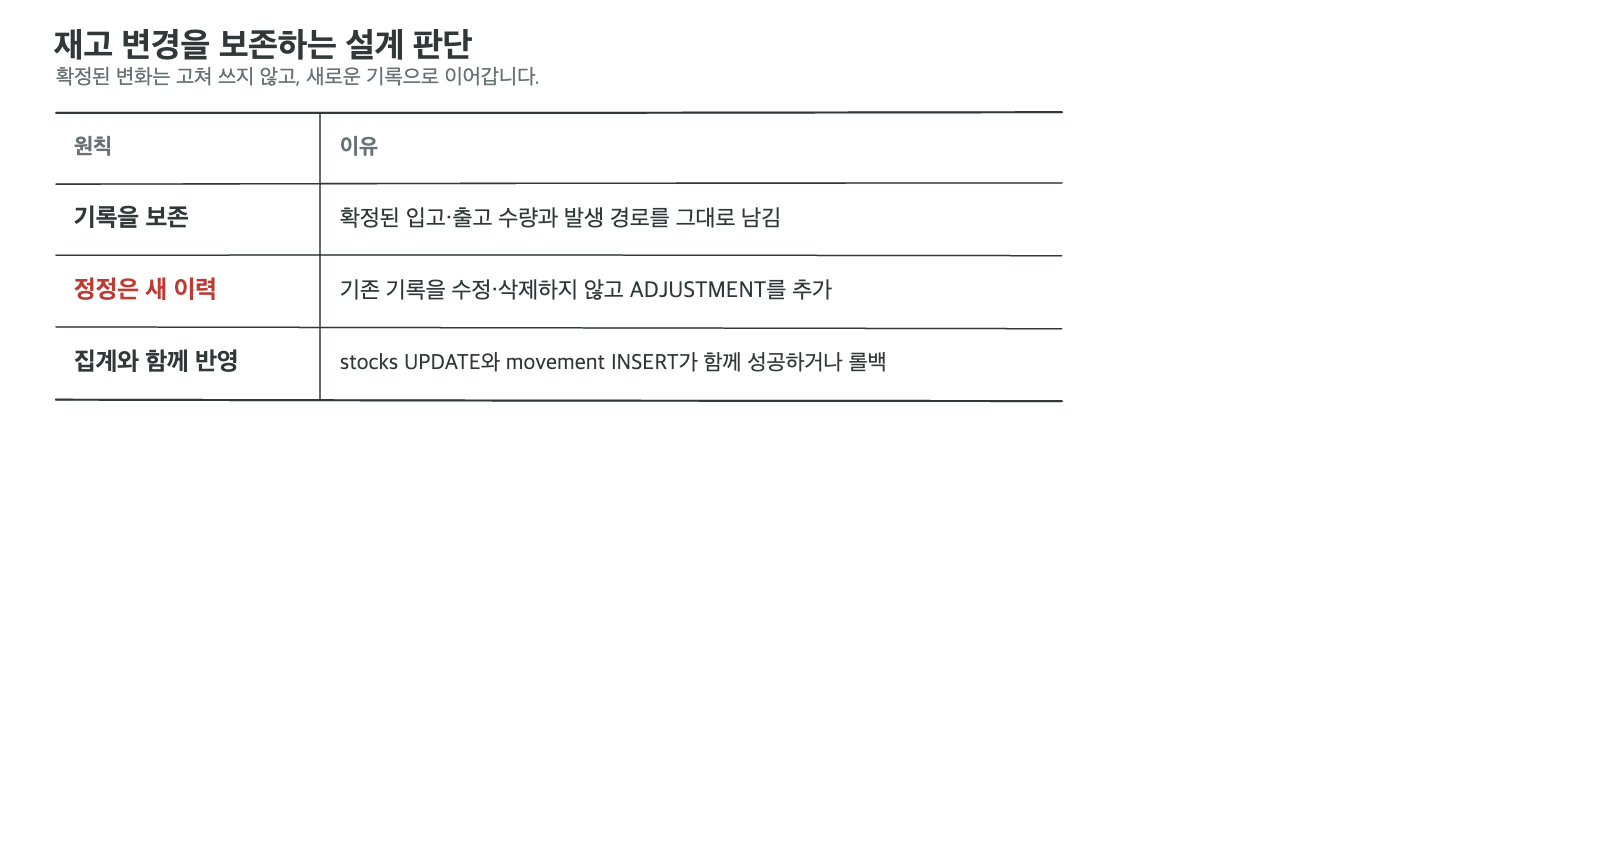
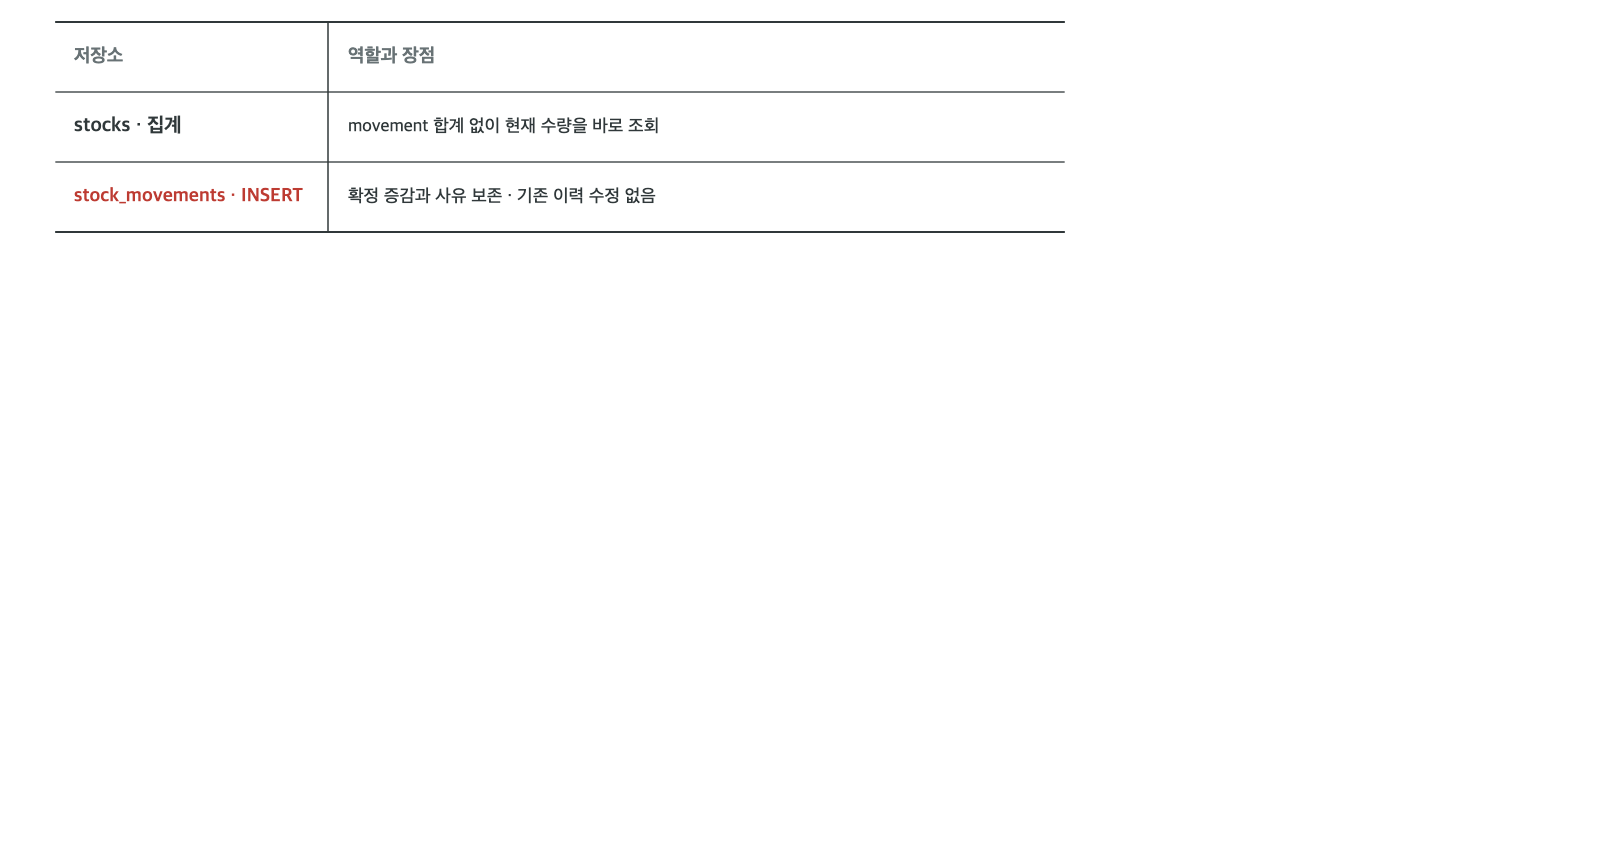
feature: API 경로 버저닝 제거 및 핵심 설계 정리
기본 API 경로를 /api로 변경하고 테스트와 Swagger 경로를 일치시킴
README를 실행·API·핵심 설계 순으로 개조식 정리
집계 테이블과 INSERT 이력 분리, 정합성 보완을 그림으로 요약

diff --git a/src/test/java/com/example/stock/StockApiTest.java b/src/test/java/com/example/stock/StockApiTest.java
@@ -48,7 +48,7 @@ class StockApiTest {
     mapper = context.getBean(ObjectMapper.class);
     client = HttpClient.newBuilder().connectTimeout(Duration.ofSeconds(5)).build();
     String port = context.getEnvironment().getRequiredProperty("local.server.port");
-    endpoint = URI.create("http://localhost:" + port + "/api/v1/stocks/inbound");
+    endpoint = URI.create("http://localhost:" + port + "/api/stocks/inbound");
   }
 
   @AfterAll
@@ -213,10 +213,10 @@ class StockApiTest {
   }
 
   @Test
-  void publishesOpenApiDocsForVersionedEndpoints() throws Exception {
+  void publishesOpenApiDocsForStockEndpoints() throws Exception {
     URI docsUri =
         URI.create(
-            endpoint.toString().replace("/api/v1/stocks/inbound", "/v3/api-docs/stock-v1"));
+            endpoint.toString().replace("/api/stocks/inbound", "/v3/api-docs/stock"));
     HttpRequest request =
         HttpRequest.newBuilder(docsUri).GET().build();
 
@@ -224,9 +224,9 @@ class StockApiTest {
 
     assertEquals(200, response.statusCode(), response.body());
     JsonNode body = mapper.readTree(response.body());
-    assertEquals("v1", body.path("info").path("version").asString());
-    assertTrue(body.path("paths").has("/api/v1/stocks/inbound"));
-    assertTrue(body.path("paths").has("/api/v1/stocks/outbound"));
+    assertEquals("0.1.0-SNAPSHOT", body.path("info").path("version").asString());
+    assertTrue(body.path("paths").has("/api/stocks/inbound"));
+    assertTrue(body.path("paths").has("/api/stocks/outbound"));
   }
 
   private HttpResponse<String> inbound(String sku, long quantity, String name, UUID requestId)

diff --git a/src/main/java/com/example/stock/common/swagger/SwaggerConfig.java b/src/main/java/com/example/stock/common/swagger/SwaggerConfig.java
@@ -6,12 +6,12 @@ import org.springdoc.core.models.GroupedOpenApi;
 import org.springframework.context.annotation.Bean;
 import org.springframework.context.annotation.Configuration;
 
-@OpenAPIDefinition(info = @Info(title = "Stock Management API", version = "v1"))
+@OpenAPIDefinition(info = @Info(title = "Stock Management API", version = "0.1.0-SNAPSHOT"))
 @Configuration
 public class SwaggerConfig {
 
   @Bean
-  public GroupedOpenApi stockApiV1() {
-    return GroupedOpenApi.builder().group("stock-v1").pathsToMatch("/api/v1/**").build();
+  public GroupedOpenApi stockApi() {
+    return GroupedOpenApi.builder().group("stock").pathsToMatch("/api/**").build();
   }
 }

diff --git a/src/test/java/com/example/stock/StockConcurrencyIntegrationTest.java b/src/test/java/com/example/stock/StockConcurrencyIntegrationTest.java
@@ -57,7 +57,7 @@ class StockConcurrencyIntegrationTest {
     mapper = context.getBean(ObjectMapper.class);
     client = HttpClient.newBuilder().connectTimeout(Duration.ofSeconds(5)).build();
     String port = context.getEnvironment().getRequiredProperty("local.server.port");
-    endpoint = URI.create("http://localhost:" + port + "/api/v1/stocks/inbound");
+    endpoint = URI.create("http://localhost:" + port + "/api/stocks/inbound");
   }
 
   @AfterAll

diff --git a/src/main/java/com/example/stock/stock/api/StockController.java b/src/main/java/com/example/stock/stock/api/StockController.java
@@ -15,7 +15,7 @@ import org.springframework.web.bind.annotation.RequestMapping;
 import org.springframework.web.bind.annotation.RestController;
 
 @RestController
-@RequestMapping("/api/v1/stocks")
+@RequestMapping("/api/stocks")
 public class StockController {
 
   private final InboundService inboundService;

diff --git a/docs/CONVENTIONS.md b/docs/CONVENTIONS.md
@@ -4,7 +4,7 @@
 
 - Google Java Style을 기준으로 합니다. 클래스는 PascalCase, 메서드·변수는 camelCase, 상수는 UPPER_SNAKE_CASE, DB 식별자는 snake_case, Enum 값은 UPPER_SNAKE_CASE로 작성합니다.
 - 코드 식별자는 영어로 작성합니다. 주석은 필요한 경우에만 간결한 한글로 작성합니다.
-- API 경로는 소문자 복수형 리소스를 사용하고 기본 경로는 `/api/v1`입니다.
+- API 경로는 소문자 복수형 리소스를 사용하고 기본 경로는 `/api`입니다.
 - Controller는 HTTP 입출력만 담당하고, Service는 비즈니스 흐름과 트랜잭션을 담당하며, Repository는 DB 접근을 담당합니다. DTO와 DB 표현을 분리합니다.
 - 업무 도메인 안에서 `api`, `service`, `repository`, `entity`로 구분합니다. Controller는 `api`, 요청·응답 DTO는 `api/dto`에 둡니다. 테이블마다 별도 도메인을 만들지 않습니다. 실제 클래스가 있는 패키지만 만들며, Spring Data JPA의 Repository 외에 불필요한 인터페이스나 구현 계층을 추가하지 않습니다.
 - SOLID 원칙을 따르되 쉬운 설계를 우선합니다. 클래스는 한 가지 명확한 책임을 갖고 의존 방향을 분명히 합니다. 실제 요구나 중복이 확인되기 전에는 인터페이스, 추상 계층, 디자인 패턴을 추가하지 않습니다.

diff --git a/docs/ARCHITECTURE.md b/docs/ARCHITECTURE.md
@@ -64,7 +64,7 @@
 ## 무결성 및 API 요구사항
 
 - DB 제약조건과 트리거로 음수 수량, 잘못된 참조, movement UPDATE/DELETE/TRUNCATE를 거절합니다. 실제 집계 갱신과 movement INSERT의 쌍은 Service 트랜잭션과 PostgreSQL 통합 테스트로 보장합니다.
-- REST API 기본 경로는 `/api/v1`입니다. 입고·출고·현재 재고 API와 DTO 계약은 구현 전에 합의하며, 상품 ID 기준 조회 응답에는 `id`, `name`, `quantity`를 제공합니다.
+- REST API 기본 경로는 `/api`입니다. 상품 ID 기준 조회 응답은 `id`, `name`, `quantity`를 제공합니다.
 - 잘못된 수량(0 이하), 필수 식별 필드 누락, 요청 형식 오류는 400, 미등록 상품 조회·출고는 404, 재고 부족과 내용이 다른 중복 요청 ID는 409로 처리합니다. 미등록 SKU 입고는 상품을 자동 등록한 뒤 처리하며 404를 반환하지 않습니다.
 - 최소 상품 식별 정보 외의 상품 메타데이터는 입고 시 선택 입력입니다. 필수 사유가 누락된 수량 변경은 400으로 거절합니다. 구체적인 상품 보정 API는 핵심 요구사항 완료 후 별도로 설계합니다.
 

diff --git a/docs/DATABASE.md b/docs/DATABASE.md
@@ -10,7 +10,7 @@
 | `tenant_id`, `sku` | SKU를 고객사 범위에서 식별하고 `(tenant_id, sku)` 유일 제약으로 동시 최초 등록을 처리 |
 | `name` | 입고 시점에 상품명을 몰라도 등록할 수 있도록 nullable |
 | `barcode`, `price`, `metadata` | 입고 확정에 필요하지 않은 상품 정보는 선택 값 |
-| `review_status` | 자동 등록된 상품 정보를 나중에 확인할 수 있도록 상태를 보존 |
+| `review_status` | 자동 등록 상품의 정보 보정이 필요한지 상태로 저장. 기본값 `NEEDS_REVIEW`; 상품 보정 기능은 MVP 범위에서 제외 |
 
 ## stocks
 
